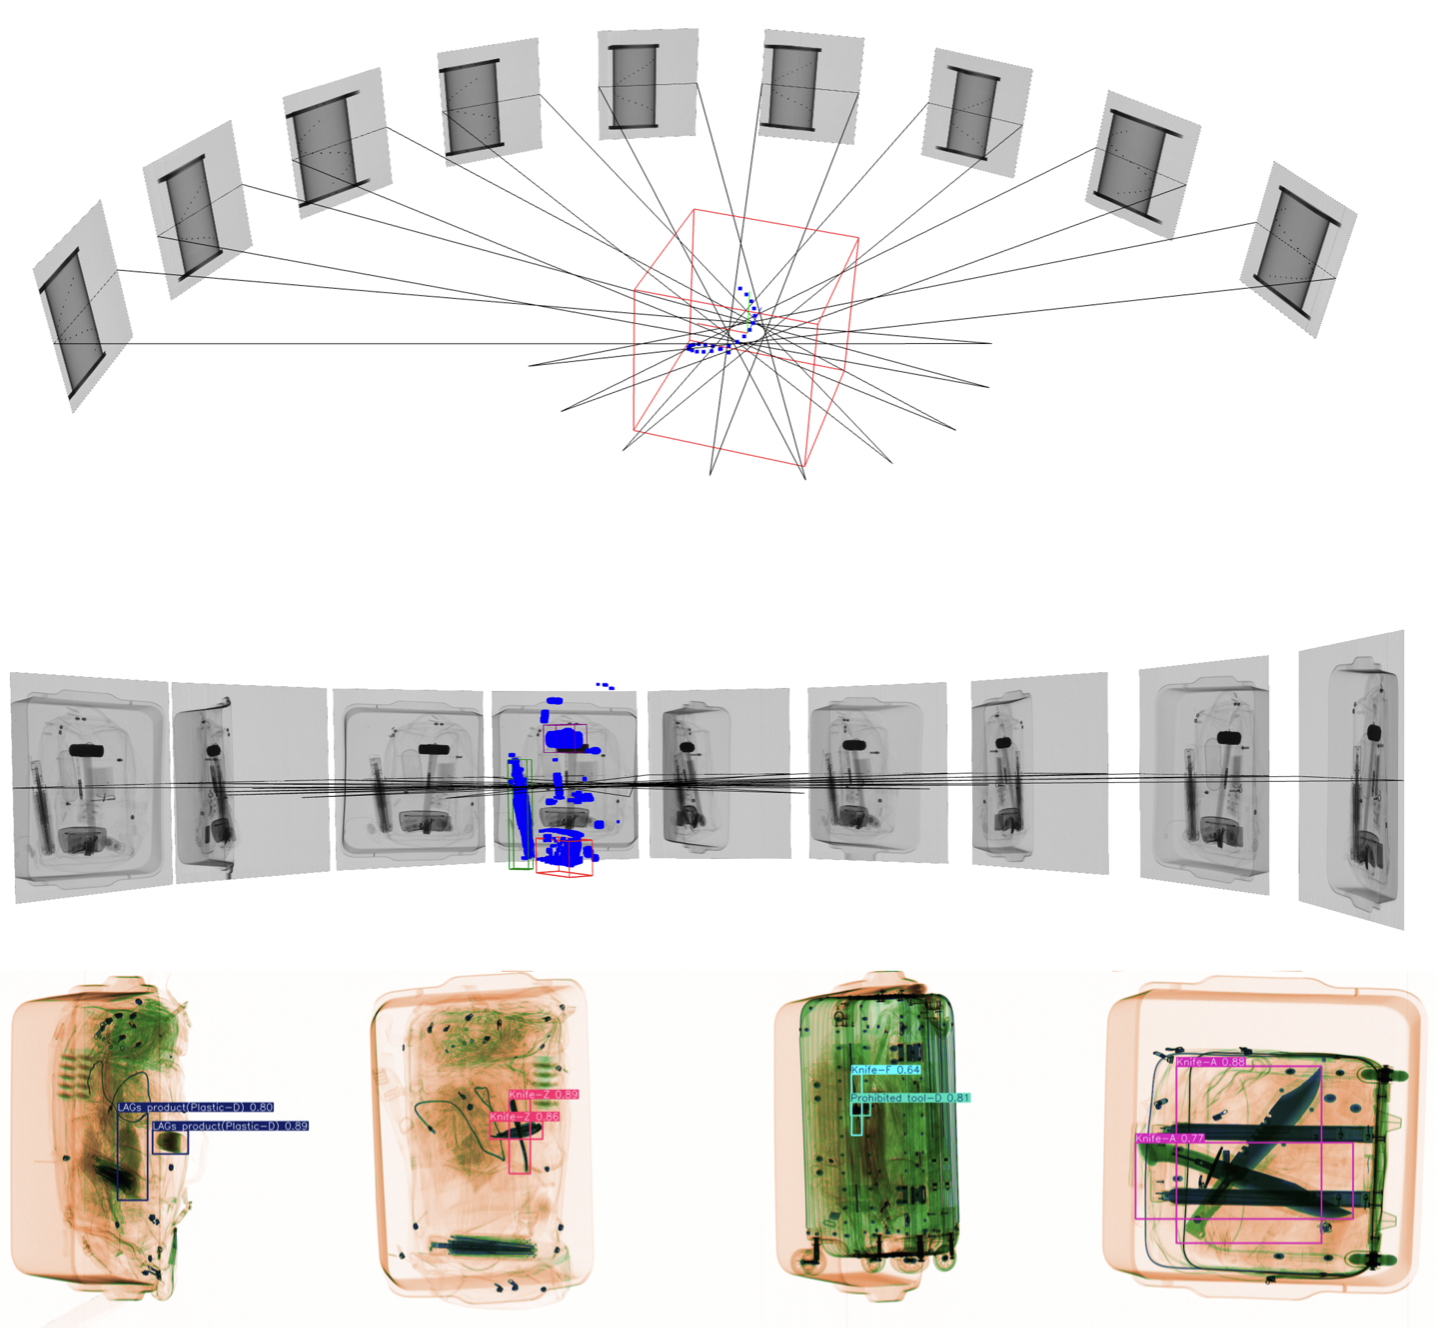
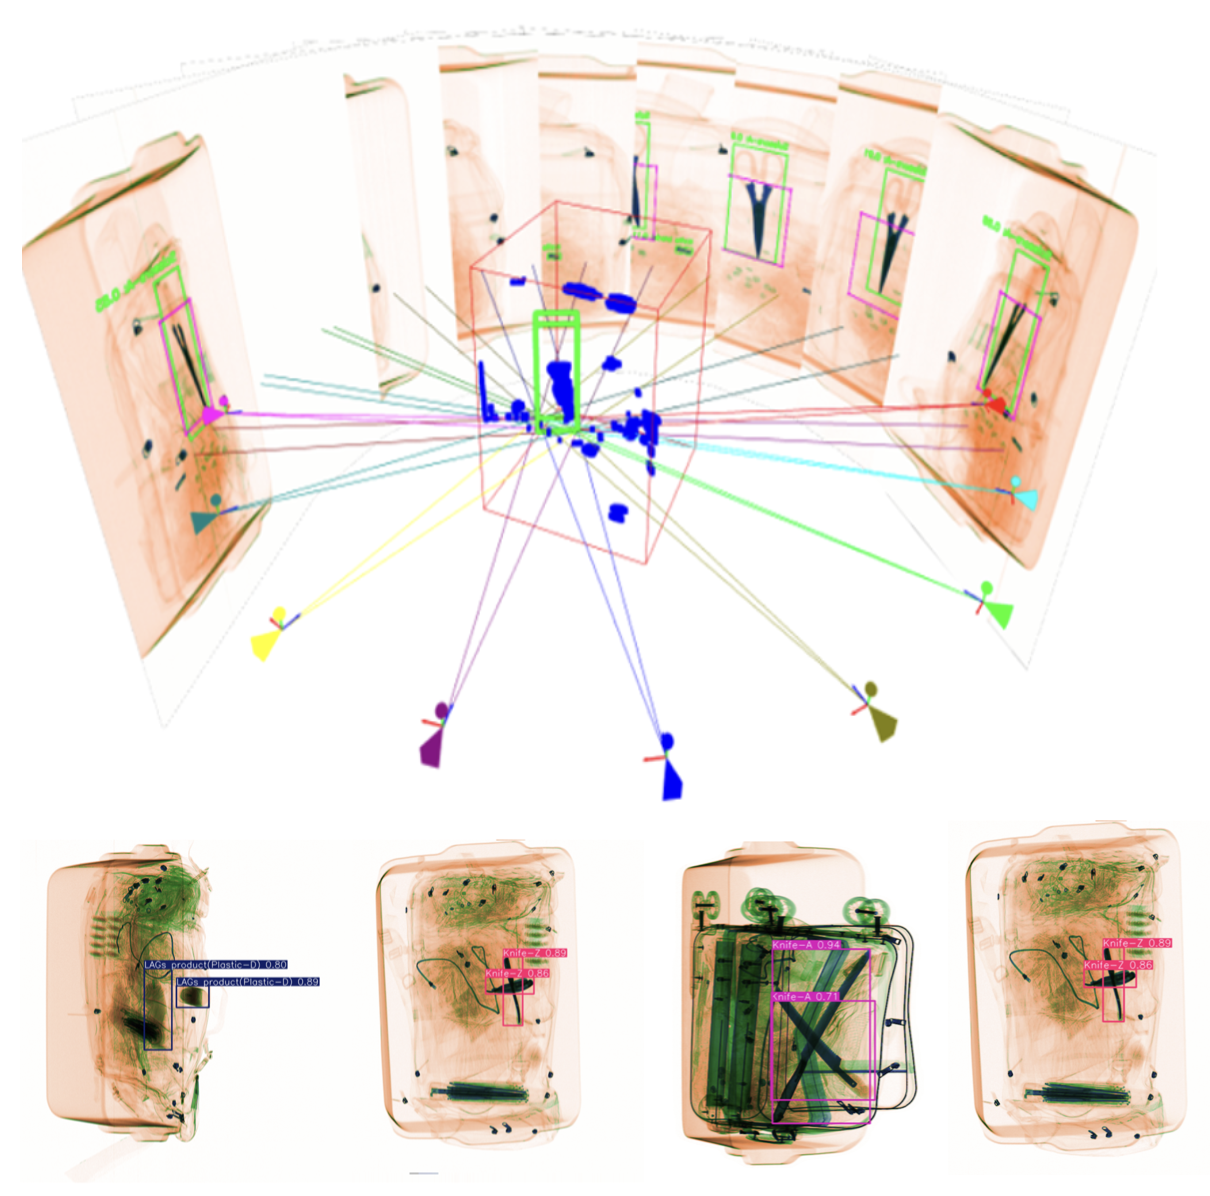
Added xray project

diff --git a/index.html b/index.html
@@ -223,6 +223,31 @@
       <tr>
         <td style="padding:20px;width:25%;vertical-align:middle;">
             <div class="one">
+              <img src='images/xray.png' width="100%">
+            </div>
+        </td>
+        <td style="padding:20px;width:75%;vertical-align:middle;padding-bottom:0px;padding-top:0px">
+              <span class="opensource-title">Multiview 3D X-Ray Objection Detector</span>
+            </a>
+            <br>
+            <span class="opensource-affiliation">SECERN AI</span>
+            <br>
+            <span class="opensource-duration">Dec 2024</span>
+            <br>
+            <a href="https://github.com/yc4ny/xray-3d-detection">Code </a><img src="https://img.shields.io/github/stars/yc4ny/xray-3d-detection?style=social" alt="GitHub stars" style="vertical-align: middle; margin-left: 5px;"> 
+            <br>
+            - 9-view Fanbeam Calibration
+            <br>
+            - X-Ray Hazardous Objection Detection 
+            <br>
+            - 3D Bounding Box Detection
+        </td>
+      </tr> 
+
+
+      <tr>
+        <td style="padding:20px;width:25%;vertical-align:middle;">
+            <div class="one">
               <img src='images/smpl_fitting.png' width="100%">
             </div>
         </td>
